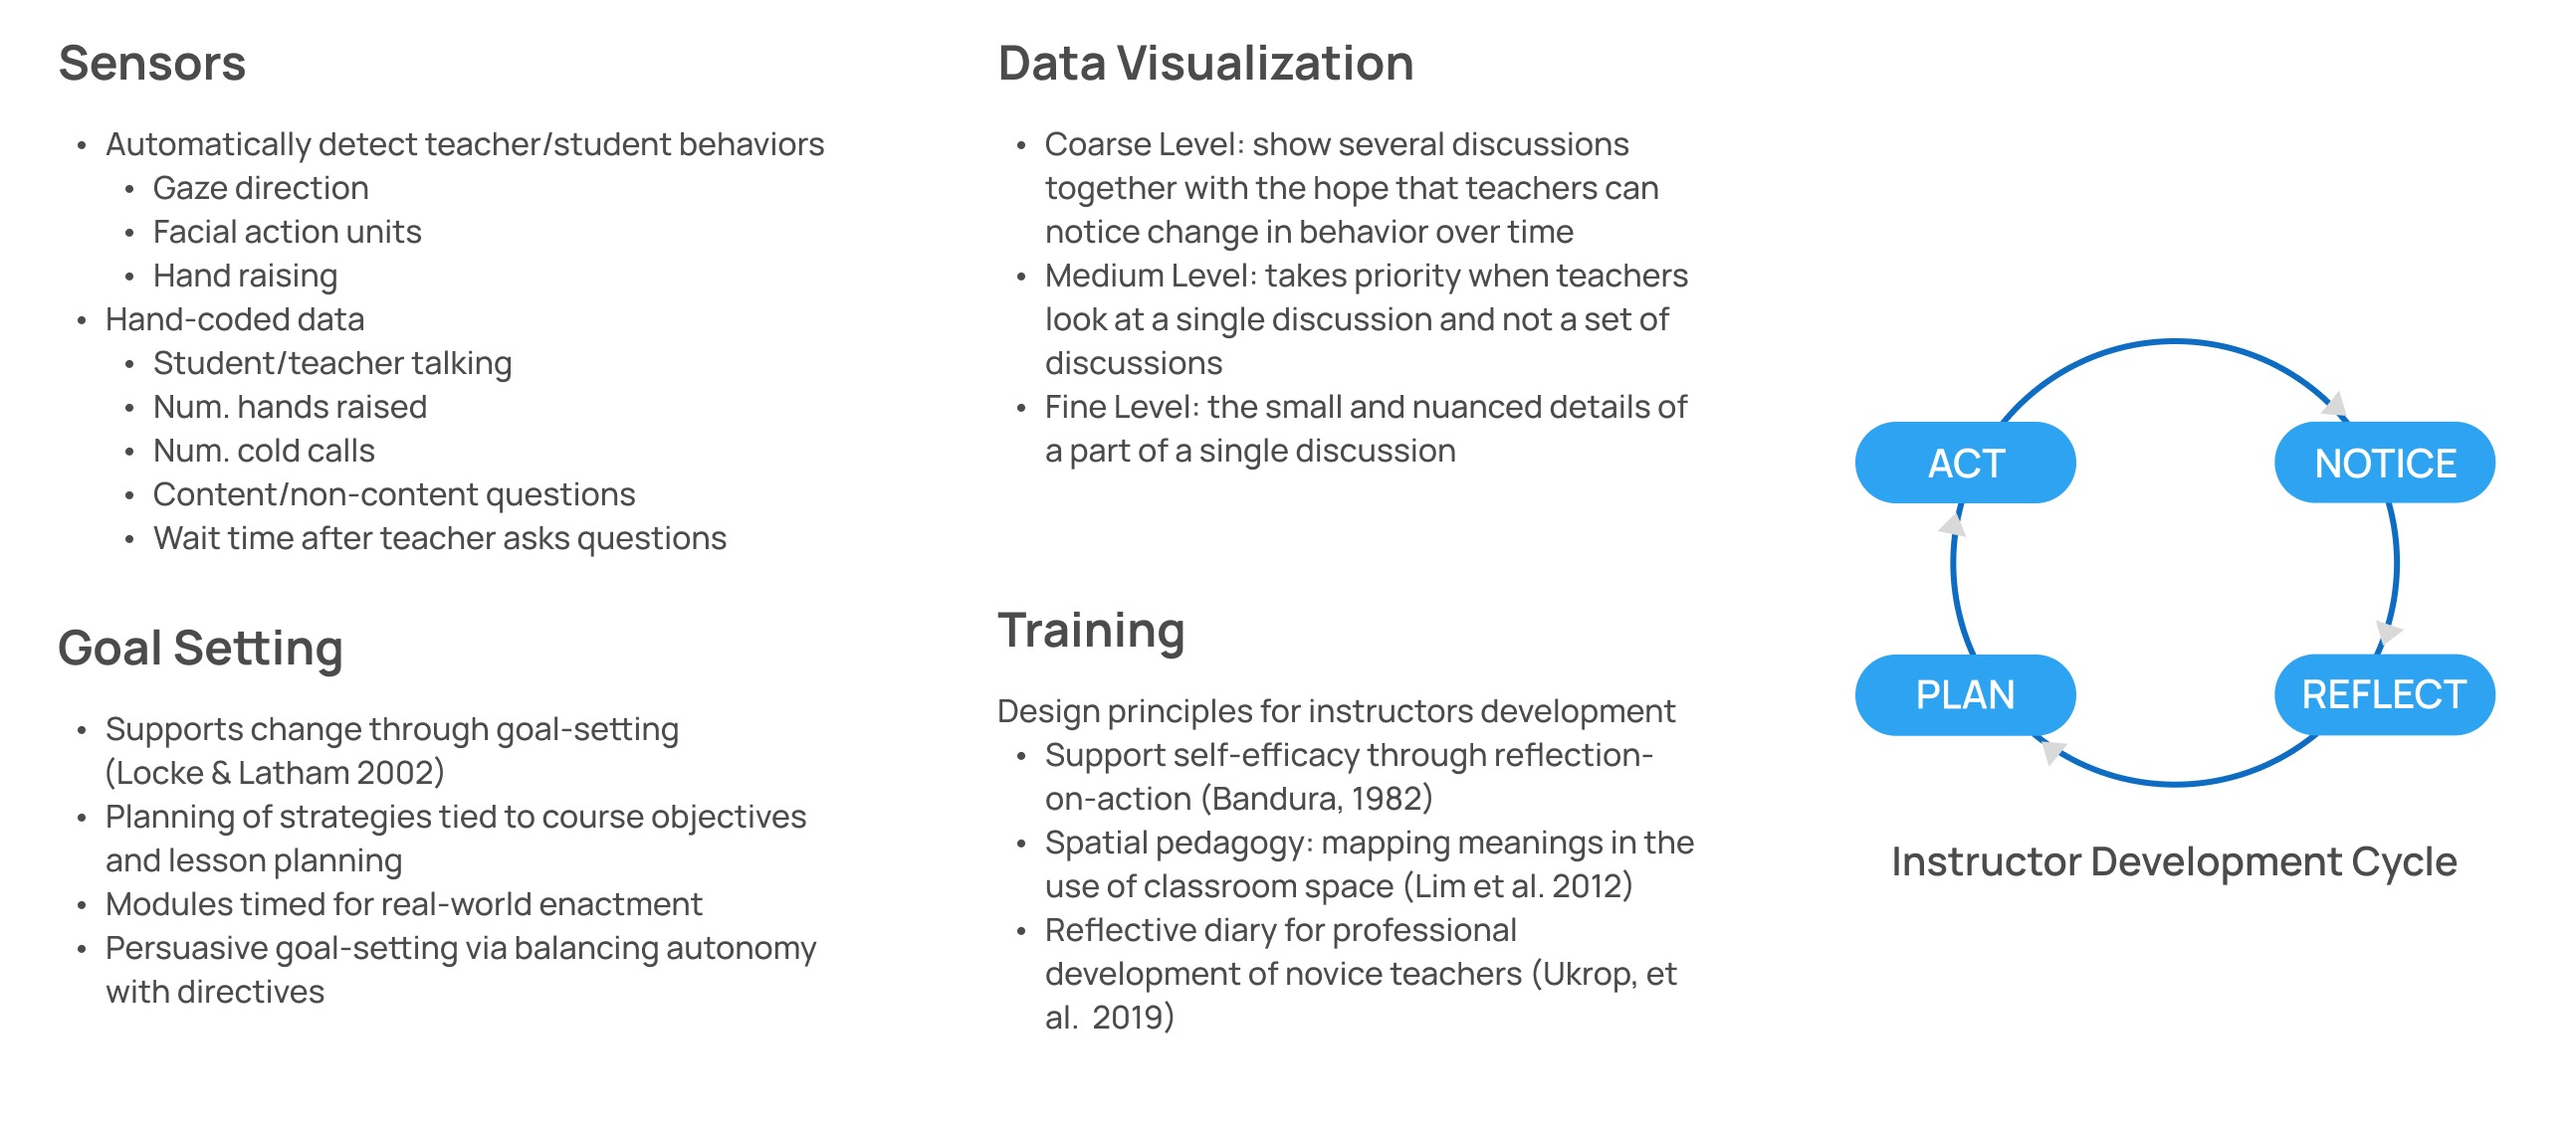
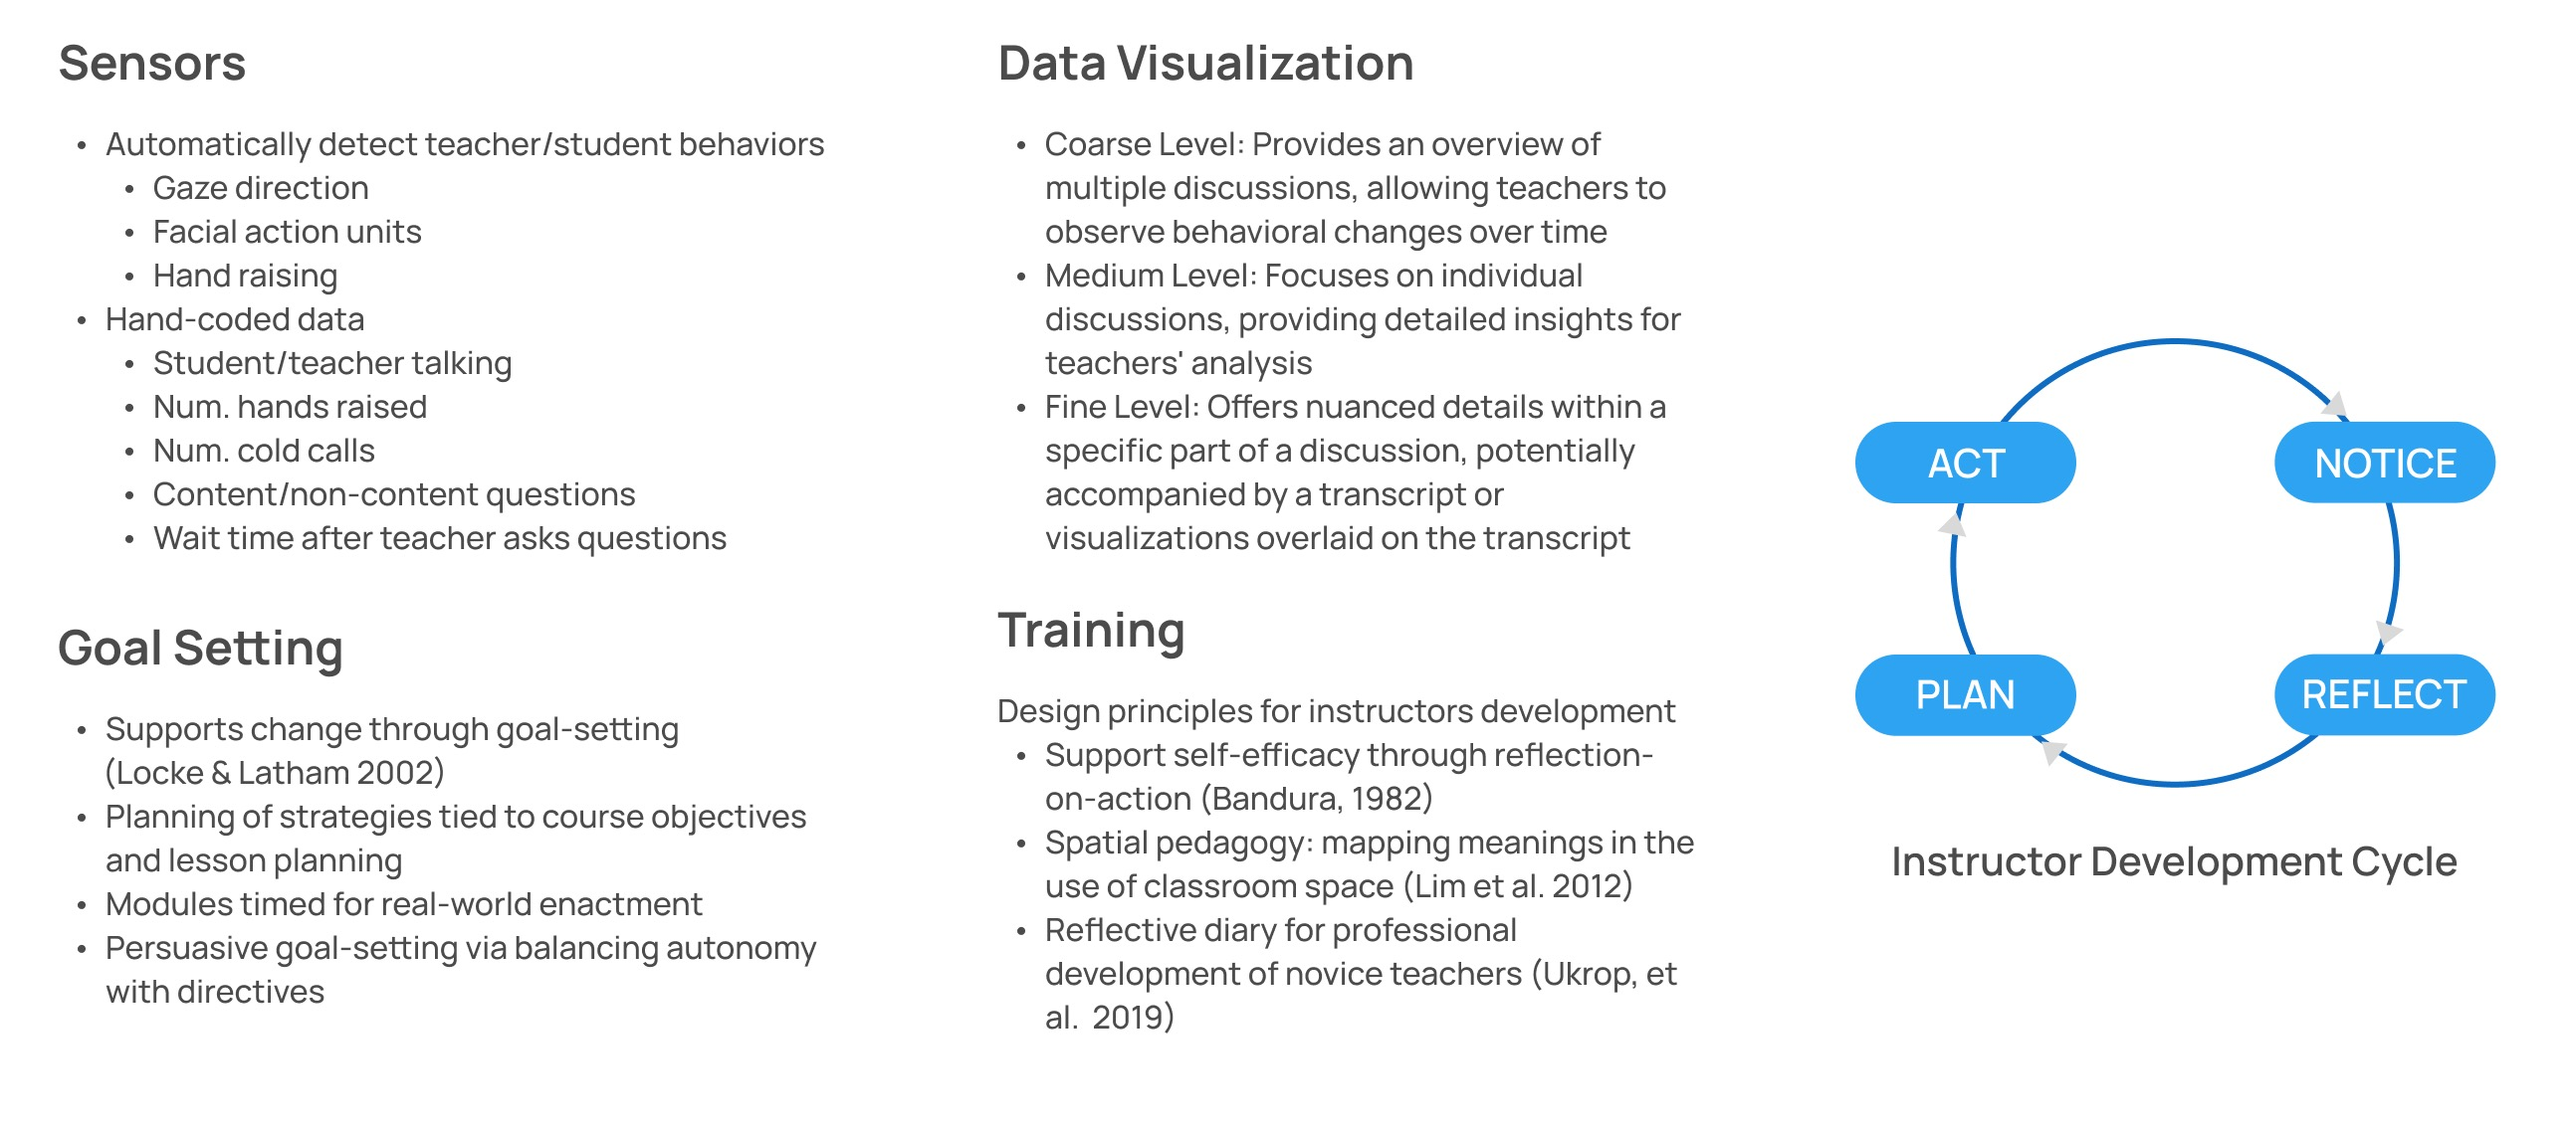
updates to classinsight

Changed region(s): [[0.4019, 0.123, 0.6491, 0.4921]]

diff --git a/project-6.html b/project-6.html
@@ -105,8 +105,8 @@
               </p>
               <P class="project-subtitle">Problem</P>
               <p class="project-details__desc-para">
-                Almost all K-12 instructors receive in-depth training on how to teach. This is not true for college, where professors are hired for being content experts, not for being experts on how to teach. 
-                Professors have a lot of demands, and not enough time for as much professional development as they would like. 
+                In college classrooms, professors often lack comprehensive training in effective teaching methods due to their focus on subject expertise, 
+                leading to limited professional development opportunities and time constraints, resulting in challenges such as student participation in class discussions.
               </p>
               <p class="project-details__desc-para">
                 ClassInSight uses sensors to collect data like student attendance, participation, facial expressions, and hand raises in college classrooms. 
@@ -117,14 +117,12 @@
             <div class="project-details__desc">
               <h3 class="project-details__content-title">Solution</h3>
               <p class="project-details__desc-para">
-                We use the sensor-driven approach to gather classroom data, such as how much students are talking, how long the wait time is, 
-                what types of questions instructors are asking, and so on. It was definitely overwhelming and meaningless to put all of them in one data visualization. 
-                According to the insights from user research, we decided to classify data visualization into 3 levels, and represent the most important data in the most accessible way.
+                ClassInSight utilizes sensor technology to collect classroom data, including student attendance, participation, facial expressions, and hand raises. 
+                To address the issue of overwhelming data, we have developed a three-level data visualization approach based on user research insights.
               </p>
               <p class="project-details__desc-para">
-                After they are done teaching, we send the instructors data visualizations and ask them questions that support reflection and goal setting, as well as help expose them to new strategies.
+                After teaching sessions, instructors receive data visualizations along with reflective questions and goal-setting support to facilitate self-reflection, expose them to new strategies, and enhance their teaching practices.
               </p>
-              
               <!-- <div class="solution-explanation">
                 <ul class="list">
                   <li>
@@ -145,7 +143,16 @@
                   class="project-details__showcase-img"
                 />
               </div>
-
+              <P class="project-subtitle">Learning</P>
+              <p class="project-details__desc-para">
+                Working on the ClassInSight project was an exciting experience for me as it involved extensive research, data analysis, and data visualization tasks. 
+                It was particularly meaningful to contribute to a user group that I greatly admire.
+              </p>
+              <p class="project-details__desc-para">
+                One of the key lessons I learned was the importance of identifying and prioritizing relevant data. With the abundance of data collected through ClassInSight's sensors, 
+                it was initially challenging to present it all in a meaningful way. However, based on valuable insights from user research, we made the decision to classify the data visualization into three levels, ensuring that the most critical information was presented in an accessible manner. 
+                This approach enabled teachers to focus on the essential aspects and derive meaningful insights from the visualizations.
+              </p>
             </div>
             
 
